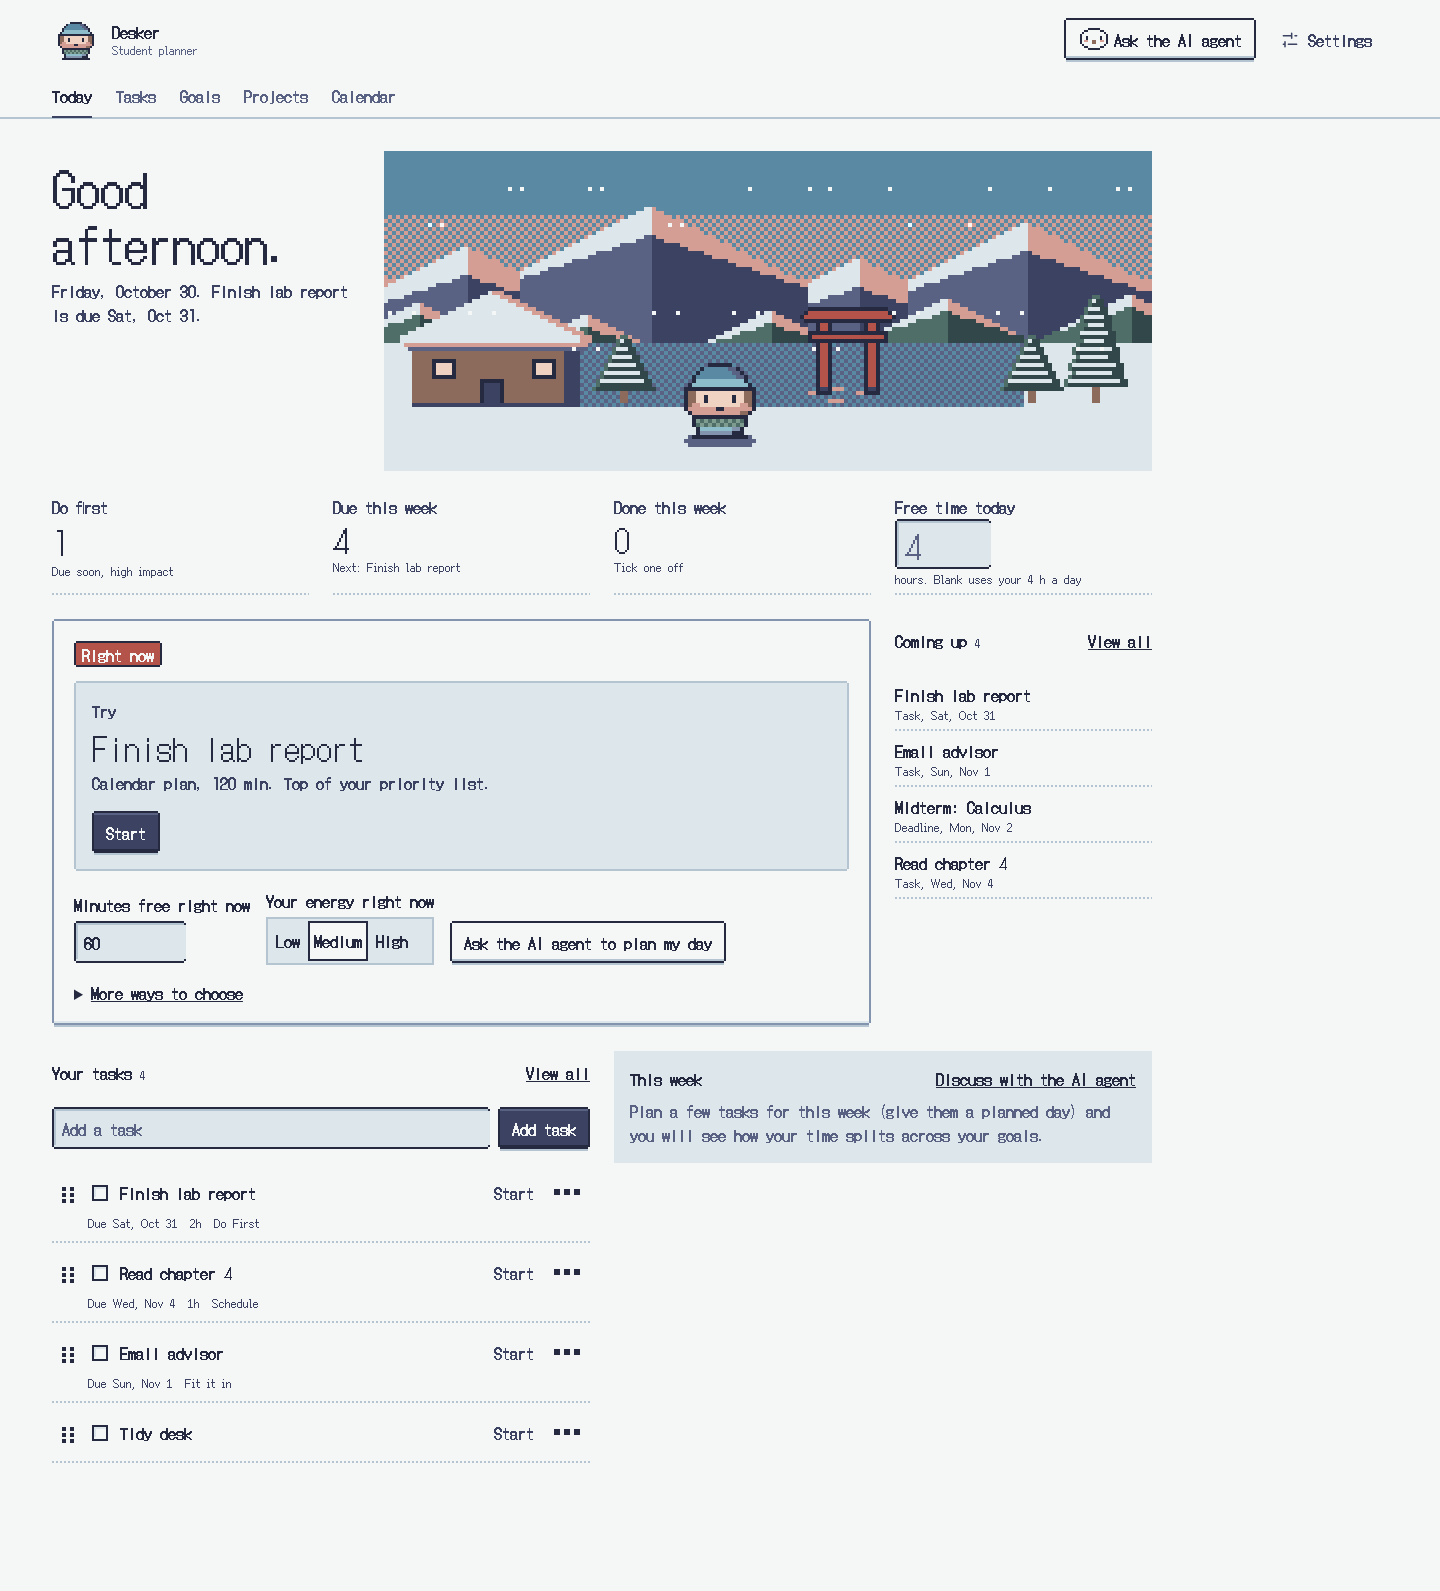
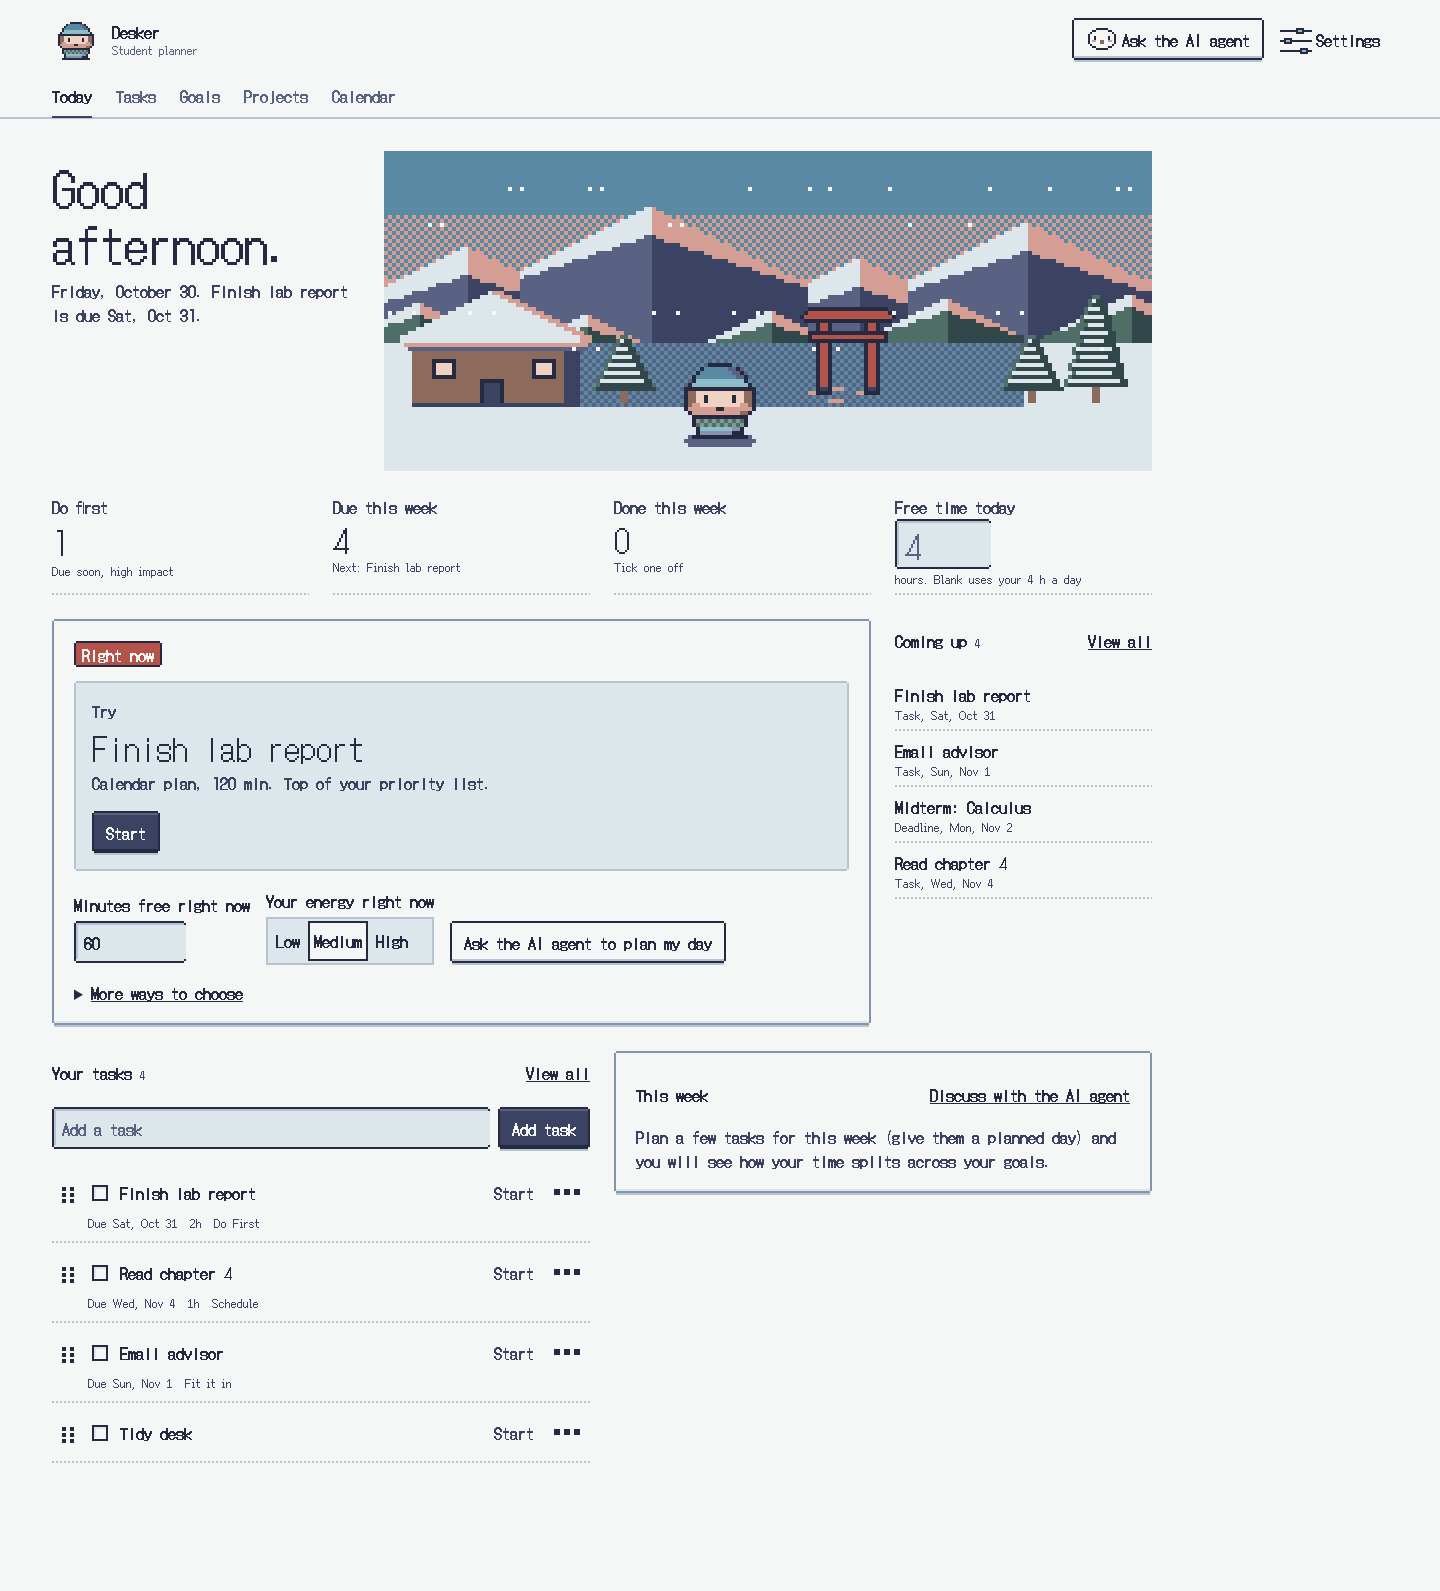
Pixel lint script, Playwright crispness spec, art notes, as-built design notes

Changed region(s): [[0.4375, 0.6776, 0.7812, 0.7392], [0.875, 0.0, 0.9375, 0.0308], [0.75, 0.0, 0.8125, 0.0308]]

diff --git a/tests/pixel-render.spec.ts b/tests/pixel-render.spec.ts
@@ -1,0 +1,92 @@
+// Renders /today at three widths and two pixel ratios, then runs pixel_lint.py render on every piece of art:
+// each art pixel must be a uniform block at its unit (--px = 2 css px, --px-scene = 4 at 1024+, else 2) and every colour must be in yuki16.
+import { test, expect, type Page } from '@playwright/test'
+import { execFileSync } from 'node:child_process'
+import { mkdtempSync } from 'node:fs'
+import { tmpdir } from 'node:os'
+import { join } from 'node:path'
+
+const PALETTE = 'pixel-kit/art/palette/yuki16.json'
+const LINT = 'pixel-kit/tools/pixel_lint.py'
+const day = (n: number) => new Date(Date.now() + n * 864e5).toLocaleDateString('sv')
+const state = {
+  goals: [{ id: 1, title: 'Graduate with honours', level: 2 }], hobbies: [], projects: [], freeHours: 4,
+  deadlines: [{ id: 1, title: 'Midterm', date: day(3), hours: 6 }],
+  tasks: [{ id: 1, title: 'Finish lab report', due: day(1), important: true, urgent: true, hours: 2 }, { id: 2, title: 'Read chapter 4', due: day(5), important: true, urgent: false }],
+}
+
+function lint(png: string, scale: number) {
+  try {
+    execFileSync('python3', [LINT, 'render', png, '--scale', String(scale), '--palette', PALETTE, '--bg', '#F4F7F6'], { encoding: 'utf8' })
+  } catch (e: any) {
+    throw new Error(`${png} at scale ${scale}\n${e.stdout || e.message}`)
+  }
+}
+
+async function open(page: Page, hour: number) {
+  await page.addInitScript(() => { localStorage.guideSeen = '1' })
+  await page.clock.setFixedTime(new Date(2026, 9, 30, hour, 0, 0))
+  await page.route('**/api/state*', (r) => (r.request().method() === 'PUT' ? r.fulfill({ body: '{}' }) : r.fulfill({ json: state })))
+  await page.goto('/today')
+  await page.waitForSelector('.px-scene')
+  await page.addStyleTag({ content: '.px-avatar{animation:none!important} .px-hanko{animation:none!important}' }) // freeze blinks so each shot is one frame
+}
+
+for (const width of [390, 768, 1440]) {
+  for (const dpr of [1, 2]) {
+    for (const [name, hour] of [['morning', 9], ['dusk', 15], ['night', 22]] as const) {
+      if (name !== 'morning' && !(width === 1440 || (width === 390 && dpr === 2))) continue // variants: desktop 1x and phone 2x are enough
+      test(`pixel art is crisp: ${width}px @${dpr}x, ${name}`, async ({ browser }) => {
+        const ctx = await browser.newContext({ viewport: { width, height: 2400 }, deviceScaleFactor: dpr })
+        const page = await ctx.newPage()
+        await open(page, hour)
+        const dir = mkdtempSync(join(tmpdir(), 'px-'))
+        const unit = 2 * dpr
+        const sceneUnit = (width >= 1024 ? 4 : 2) * dpr
+
+        await page.locator('.px-scene').screenshot({ path: join(dir, 'scene.png') })
+        lint(join(dir, 'scene.png'), sceneUnit)
+
+        const art: [string, number][] = [['.px-avatar:not(.px-avatar-scene)', unit], ['img[src*="/pixel/i-"]', unit]]
+        for (const [i, [sel, scale]] of art.entries()) {
+          const els = page.locator(sel)
+          const n = Math.min(await els.count(), 6)
+          expect(n, `${sel} present`).toBeGreaterThan(0)
+          for (let k = 0; k < n; k++) {
+            if (!(await els.nth(k).isVisible())) continue
+            await els.nth(k).scrollIntoViewIfNeeded()
+            const png = join(dir, `art${i}-${k}.png`)
+            await els.nth(k).screenshot({ path: png })
+            lint(png, scale)
+          }
+        }
+        // frame edges: a strip across the 3-art-pixel border, no text inside it
+        for (const sel of ['.px-btn-primary', '.px-panel', '.px-field']) {
+          const el = page.locator(`${sel}:visible`).first()
+          await el.scrollIntoViewIfNeeded()
+          await page.evaluate(() => scrollTo(0, 0)) // clip coordinates are viewport-relative; keep the page still
+          const box = await el.boundingBox()
+          expect(box, `${sel} has a box`).not.toBeNull()
+          const png = join(dir, `frame-${sel.slice(4)}.png`)
+          await page.screenshot({ path: png, clip: { x: Math.round(box!.x), y: Math.round(box!.y), width: 6, height: Math.min(Math.round(box!.height), 60) } })
+          lint(png, unit)
+        }
+        await ctx.close()
+      })
+    }
+  }
+}
+
+test('reduced motion removes the snow and the blink', async ({ browser }) => {
+  const ctx = await browser.newContext({ viewport: { width: 1440, height: 900 }, reducedMotion: 'reduce' })
+  const page = await ctx.newPage()
+  await page.addInitScript(() => { localStorage.guideSeen = '1' })
+  await page.route('**/api/state*', (r) => (r.request().method() === 'PUT' ? r.fulfill({ body: '{}' }) : r.fulfill({ json: state })))
+  await page.goto('/today')
+  await page.waitForSelector('.px-scene')
+  const anim = await page.locator('.px-avatar-scene').evaluate((el) => getComputedStyle(el).animationName)
+  expect(anim).toBe('none')
+  const flakes = await page.locator('.px-flake').evaluate((c: HTMLCanvasElement) => c.getContext('2d')!.getImageData(0, 0, 192, 80).data.some((v) => v !== 0))
+  expect(flakes, 'no flakes are drawn').toBe(false)
+  await ctx.close()
+})

diff --git a/playwright.config.ts b/playwright.config.ts
@@ -1,0 +1,7 @@
+import { defineConfig } from '@playwright/test'
+
+export default defineConfig({
+  testDir: 'tests',
+  webServer: { command: 'npm run dev -- --port 5173', url: 'http://localhost:5173', reuseExistingServer: true },
+  use: { baseURL: 'http://localhost:5173' },
+})

diff --git a/art/authoring/gen_sprites.py b/art/authoring/gen_sprites.py
@@ -115,7 +115,7 @@ class Canvas:
         L = letters
         for y, (x0, x1) in spans.items():
             for x in range(x0, x1 + 1):
-                edge = x in (x0, x1) or y == (top if top is not None else min(spans)) or y == (bottom if bottom is not None else max(spans))
+                edge = x in (x0, x1) or (top != -1 and y == (top if top is not None else min(spans))) or y == (bottom if bottom is not None else max(spans))
                 if edge: self.g[y][x] = outline; continue
                 t = (1 if x >= x1 - 2 else 0) + (1 if y >= max(spans) - 2 else 0) + (1 if y >= max(spans) - 1 else 0)
                 self.g[y][x] = L[min(t, 3)]
@@ -133,7 +133,7 @@ def eyes(c, blink, ch='K', xs=(7, 15)):
         c.put(x, 12, 'K' if blink else ch); c.put(x + 1, 12, 'K' if blink else ch)
 
 def body_feet(c, letters):
-    c.shape(BODY, letters, top=17)
+    c.shape(BODY, letters, top=-1)  # the head's bottom outline is the body's top: no double line
     for x in range(5, 19): c.put(x, 21, 'K')
 
 FUR_SNOW = 'WwsS'
@@ -238,7 +238,7 @@ def person(c, blink):
     for x in (8, 15):
         c.put(x, 11, 'K' if not blink else 'W'); c.put(x, 12, 'K')
     c.row(13, 5, 'PP'); c.row(13, 17, 'PP'); c.row(14, 10, 'KKKK') if False else c.row(14, 11, 'KK')
-    c.shape(BODY, 'JjkK', top=17)
+    c.shape(BODY, 'JjkK', top=-1)
     for x in range(5, 19): c.put(x, 21, 'K')
     c.row(16, 5, 'KKKKKKKKKKKKKK')
     c.row(17, 5, 'KgGgGgGgGgGgK'[:14] if False else 'KgGgGgGgGgGgGK'); c.row(18, 5, 'KGgGgGgGgGgGgK')

diff --git a/design/ART_NOTES.md b/design/ART_NOTES.md
@@ -1,0 +1,30 @@
+# Art notes: lint warnings I kept, and why
+
+`npm run pixel:lint` exits 0 (no errors). `pixel_lint.py sprite` still reports warnings below. Coordinates are x,y in the 1x sprite; sheet.png coordinates add 24 (avatars) or 16 (hanko) to x for the second frame.
+
+## Intentional
+
+| Sprite | Warning | Why it stays |
+|---|---|---|
+| every `av-*.sheet.png` | W1 orphan px near (7..8, 12) and (15..16, 12) in the blink frame | The 1px closed eyes. The kit README lists the same warning for the shimaenaga sheet. |
+| `av-shimaenaga` | W2 (9,18), (12,18) | Feet joining the belly outline. Kit reference art, untouched. |
+| `av-person-a/b/c` | W2 (4,9), (19,9); W3 2 clumps at the beanie brim | The brim overhangs the head by one pixel on each side, so brim outline and head outline touch for 2 rows. Reads as a folded cuff at 1x. |
+| `av-kitsune` | W2 (5,2), (18,2); W3 5; W1 (19,13) | Ear tips step 1:1 then 1:2. The clumps are ear-to-head joins and the scarf's first row against the head's bottom outline. The orphan is the right cheek highlight, kept as a glint. |
+| `av-shiba` | W2 (4,9), (19,9), (5,4), (18,4); W1 (19,14), (16,15); W3 2 | Hat band meets the head outline (same as the beanie); ear base steps; the orphans are muzzle shading. |
+| `av-tanuki` | W2 (3,10), (20,10) | Kasa brim ends against the head outline. |
+| `av-nihonzaru` | W3 1 | One join where the side ear meets the head outline. |
+| `i-more`, `i-grip` | W3 / W4 | Solid dot glyphs: one colour and 2px blocks are the whole icon. |
+| `i-today`, `i-settings`, `i-send`, `i-close`, `i-add`, `i-check`, `i-clock`, `i-flag` | W4 fewer than 3 values | Icons are capped at 4 colours (outline plus one fill). A third value would break the budget. |
+| `i-goals` | W2 (2,9), (5,6), (10,6), (13,9) | The pyramid's 1:1 slope with horizontal divider lines. |
+| `i-calendar`, `check.sheet` | W3 | The calendar's date dots and the checkbox's inner bevel are 2x2 by design. |
+| `hanko` | W1-W4 | A solid seal: one colour with a notched corner and a 1px glint (the W1 orphan at (2,2) in frames 1 and 2). |
+
+## Not done
+
+- No dense-list 16x16 head sprites: nothing on `/today` needed one.
+- Shimaenaga is the kit's own file, copied unchanged to `art/sprites/av-shimaenaga.sprite.txt`.
+- The scene is 192x80 and the avatar is a live overlay, not baked in, so it follows the user's avatar setting. Snow is drawn on a canvas on top.
+
+## How the art is made
+
+`art/authoring/gen_sprites.py` and `gen_house.py` place palette letters on explicit grids and write `art/sprites/*.sprite.txt` and `art/props/house.sprite.txt`. Those text files are the source; nothing is generated by a model or resampled. `art/scene_build.py` composes the scene from a text tilemap plus props and runs the dusk and night remap tables.

diff --git a/design/DESIGN.md b/design/DESIGN.md
@@ -134,3 +134,15 @@ My first draft was a standard retro-pixel page: framed cards everywhere, pixel i
 2. **Add `avatar` to `api/_store.js` SETTINGS** (a one-line server change): ok?
 3. **Other routes stay half-themed** this round: ok?
 4. **Scene height 192×80** (320px on desktop) rather than the reference's taller crop: ok?
+
+## As built (addendum after approval)
+
+Your answers: 1 ok (quadrants by position), 2 ok (`avatar` in `SETTINGS`), 3 "do the best that leads to pixel art", 4 ok (192x80).
+
+- **Decision 3:** I went further than token-only. Every `rounded-*`, shadow, `transition`, off-palette hex and opacity colour in `src/` was swept, so other routes are square, 2px-bordered and on the palette. They still use the old layouts. `slop_lint` over all of `src/` is at 0 errors, 0 warnings.
+- **Mobile:** the scene crops 24 art px of empty sky (`--crop`) so the Start button sits at y=741 on an 844px screen, above the 64px tab bar.
+- **Stat captions** hide below 1024px (except Free time, which needs its note).
+- **Dusk** keeps the snow cold; only the horizon band turns hada-1, plus the window glow.
+- **Avatar picker** lives in Settings (3 beanie colourways plus the six animals). Nav shows the user's avatar; the chat shows the shimaenaga.
+- **Hanko** plays in the "Done" toast, because the finished row leaves the Today list at once and could not show it.
+- **Not built:** Tooltip and a standalone Dialog component (the one dialog, Getting started, uses the panel frame and checker backdrop directly), and 16x16 head sprites.
